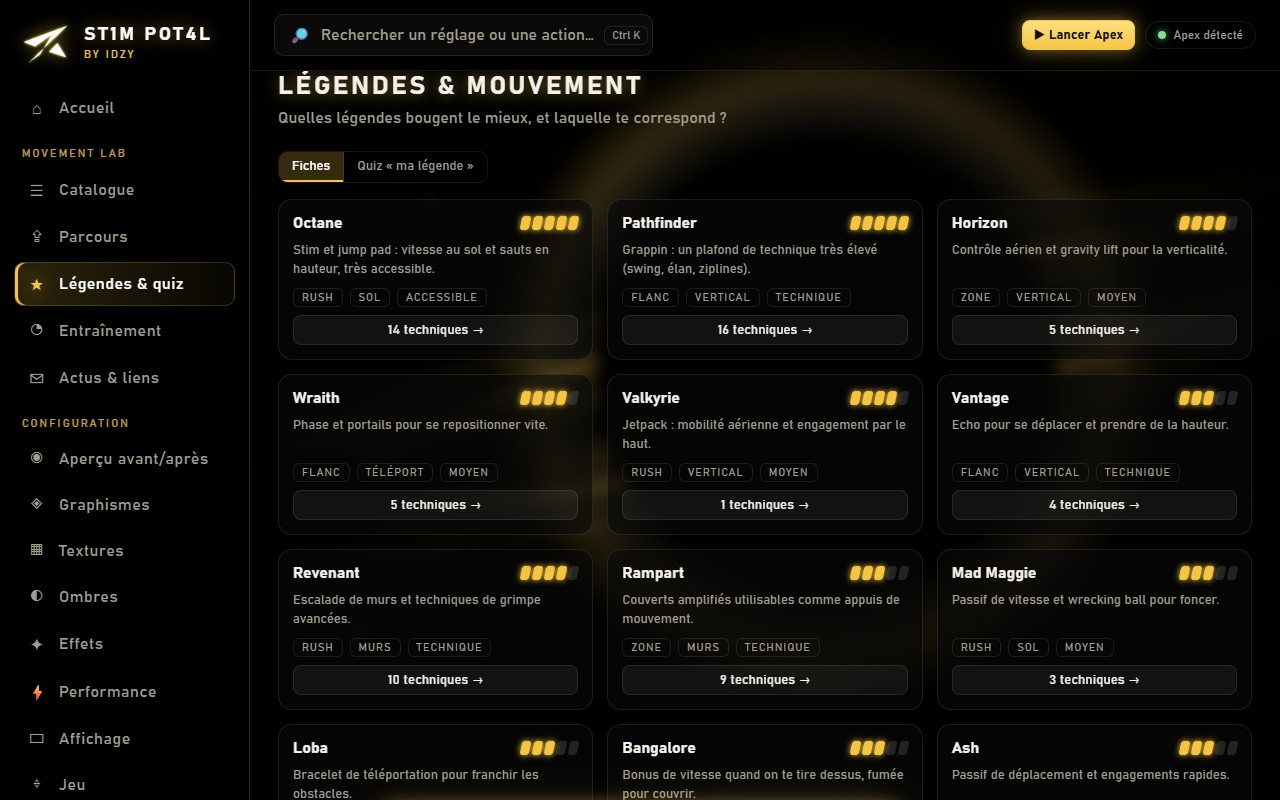
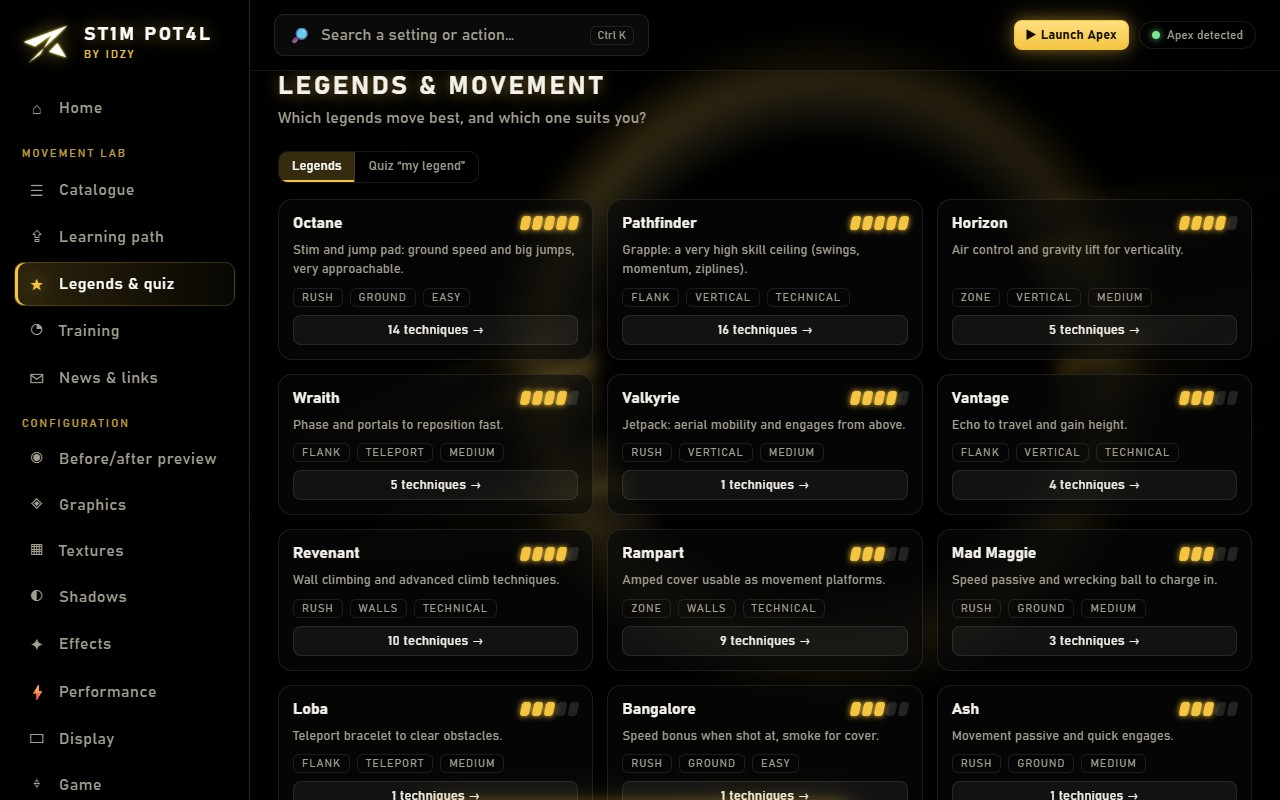
README, docs and screenshots in English

diff --git a/README.md b/README.md
@@ -2,23 +2,23 @@
 
 <img src="assets/banner.svg" alt="ST1M POT4L by idZy" width="100%">
 
-### L'éditeur de config **Apex Legends** qui débloque ce que le jeu cache — et le hub **mouvement** de ta communauté.
+### The **Apex Legends** config editor that unlocks what the game hides — and your community's **movement** hub.
 
-<a href="https://github.com/izakk-exe/st1m-pot4l-by-idzy/releases/latest"><img src="https://img.shields.io/badge/%E2%AC%87%20T%C3%89L%C3%89CHARGER-f5c542?style=for-the-badge&labelColor=000000" alt="Télécharger"></a>
-<a href="https://izakk-exe.github.io/st1m-pot4l-by-idzy/"><img src="https://img.shields.io/badge/%E2%96%B6%20D%C3%89MO%20WEB-ffffff?style=for-the-badge&labelColor=000000" alt="Démo web"></a>
+<a href="https://github.com/izakk-exe/st1m-pot4l-by-idzy/releases/latest"><img src="https://img.shields.io/badge/%E2%AC%87%20DOWNLOAD-f5c542?style=for-the-badge&labelColor=000000" alt="Download"></a>
+<a href="https://izakk-exe.github.io/st1m-pot4l-by-idzy/"><img src="https://img.shields.io/badge/%E2%96%B6%20WEB%20DEMO-ffffff?style=for-the-badge&labelColor=000000" alt="Web demo"></a>
 
 <img src="https://img.shields.io/github/v/release/izakk-exe/st1m-pot4l-by-idzy?style=flat-square&color=f5c542&labelColor=0a0a0a" alt="version">
-<img src="https://img.shields.io/github/downloads/izakk-exe/st1m-pot4l-by-idzy/total?style=flat-square&color=f5c542&labelColor=0a0a0a" alt="téléchargements">
+<img src="https://img.shields.io/github/downloads/izakk-exe/st1m-pot4l-by-idzy/total?style=flat-square&color=f5c542&labelColor=0a0a0a" alt="downloads">
 <img src="https://img.shields.io/badge/Windows-10%20%7C%2011-f5c542?style=flat-square&labelColor=0a0a0a" alt="Windows">
-<img src="https://img.shields.io/badge/licence-MIT-f5c542?style=flat-square&labelColor=0a0a0a" alt="MIT">
-<img src="https://img.shields.io/badge/100%25-gratuit-f5c542?style=flat-square&labelColor=0a0a0a" alt="gratuit">
+<img src="https://img.shields.io/badge/license-MIT-f5c542?style=flat-square&labelColor=0a0a0a" alt="MIT">
+<img src="https://img.shields.io/badge/100%25-free-f5c542?style=flat-square&labelColor=0a0a0a" alt="free">
 
 <br><br>
 
 <table>
 <tr>
-<td align="center"><img src="assets/readme/before-after.gif" width="400" alt="Comparateur avant / après"><br><sub><b>Avant / après</b> sur de vraies captures</sub></td>
-<td align="center"><img src="assets/readme/overlay.gif" width="250" alt="Overlay clavier et souris"><br><sub><b>Overlay</b> clavier &amp; souris</sub></td>
+<td align="center"><img src="assets/readme/before-after.gif" width="400" alt="Before / after comparison"><br><sub><b>Before / after</b> on real in-game captures</sub></td>
+<td align="center"><img src="assets/readme/overlay.gif" width="250" alt="Keyboard and mouse overlay"><br><sub><b>Keyboard &amp; mouse</b> overlay</sub></td>
 <td align="center"><img src="assets/readme/superglide-trainer.gif" width="400" alt="Superglide Trainer"><br><sub><b>Superglide Trainer</b></sub></td>
 </tr>
 </table>
@@ -27,65 +27,65 @@
 
 ---
 
-## ⚡ En 3 clics
+## ⚡ In 3 clicks
 
-1. **Télécharge** l'installeur dans les [Releases](https://github.com/izakk-exe/st1m-pot4l-by-idzy/releases/latest).
-2. **Ferme Apex**, lance **ST1M POT4L**.
-3. Clique sur **« Appliquer le setup ST1M »** — FOV 120, réticule magenta, textures et ombres réglées. Une sauvegarde est créée, un bouton **Annuler** reste à portée.
+1. **Download** the installer from the [Releases](https://github.com/izakk-exe/st1m-pot4l-by-idzy/releases/latest) page.
+2. **Close Apex**, then launch **ST1M POT4L**.
+3. Click **"Apply the ST1M setup"** — FOV 120, magenta reticle, textures and shadows tuned. A backup is created and an **Undo** button stays within reach.
 
-<p align="center"><img src="assets/readme/home.jpg" width="92%" alt="Accueil"></p>
+<p align="center"><img src="assets/readme/home.jpg" width="92%" alt="Home"></p>
 
 ---
 
-## 🎛 L'éditeur de config — tout ce que le menu d'Apex ne te laisse pas faire
+## 🎛 The config editor — everything Apex's menu won't let you do
 
 <table>
 <tr>
-<td width="50%"><img src="assets/readme/config.jpg" alt="Réglages"></td>
+<td width="50%"><img src="assets/readme/config.jpg" alt="Settings"></td>
 <td width="50%">
 
-- **40+ réglages** : graphismes, textures, ombres, effets, performance, affichage, FOV jusqu'à **120**, réticule **RGB**, NVIDIA Reflex…
-- **Révision avant d'appliquer** : la liste exacte de ce qui change, avec **annulation réglage par réglage** ↺
-- **Presets** : ST1M, Compétitif, Équilibré, Ultra
-- **Codes de partage** `SP1:` / `CE1:` — copie ton setup, colle celui d'un pote
-- **Profils** nommés (Ranked, LAN…), recherche `Ctrl + K`
-- **Sauvegardes automatiques** (original + version précédente) et **restauration en 1 clic**
-- **Verrou de config** pour qu'Apex ne réinitialise pas tes réglages
-- **Résolution étirée**, options de lancement, bouton **▶ Lancer Apex** (Steam / EA app)
+- **40+ settings**: graphics, textures, shadows, effects, performance, display, FOV up to **120**, **RGB** reticle, NVIDIA Reflex…
+- **Review before applying**: the exact list of what changes, with **per-setting undo** ↺
+- **Presets**: ST1M, Competitive, Balanced, Ultra
+- **Share codes** `SP1:` / `CE1:` — copy your setup, paste a friend's
+- **Named profiles** (Ranked, LAN…) and `Ctrl + K` search
+- **Automatic backups** (original + previous version) and **one-click restore**
+- **Config lock** so Apex can't reset your settings
+- **Stretched resolution**, launch options and a **▶ Launch Apex** button (Steam / EA app)
 
 </td>
 </tr>
 </table>
 
-### 👁 Vois l'effet avant de l'appliquer
-Chaque réglage a son bouton **Aperçu** : glisse la barre dorée pour comparer **sur de vraies captures du jeu** (ombres du soleil, SSAO, textures, LOD, décals, streaming…), avec une phrase qui explique ce que ça change.
+### 👁 See the effect before you apply it
+Every setting has a **Preview** button: drag the golden bar to compare **on real in-game captures** (sun shadows, SSAO, textures, LOD, decals, streaming…), with a short note on what it actually changes.
 
-<p align="center"><img src="assets/readme/apercu.jpg" width="92%" alt="Aperçu avant / après des presets"></p>
+<p align="center"><img src="assets/readme/apercu.jpg" width="92%" alt="Before / after preview of the presets"></p>
 
 ---
 
-## 🧭 Movement Lab — le hub mouvement
+## 🧭 Movement Lab — the movement hub
 
-> Plus de **280 techniques** de mouvement, un parcours pour progresser, des entraîneurs qui mesurent tes inputs.
+> **280+ movement techniques**, a learning path to progress, and trainers that measure your inputs.
 
 <table>
 <tr>
-<td width="50%"><img src="assets/readme/catalogue.jpg" alt="Catalogue"><br><b>☰ Catalogue</b> — 287 techniques triées par difficulté, avec <b>tes propres touches</b> lues dans <code>settings.cfg</code> et un lien vers le guide complet.</td>
-<td width="50%"><img src="assets/readme/parcours.jpg" alt="Parcours"><br><b>⇪ Parcours</b> — 6 étapes, niveaux, XP et badges : de <i>Rookie</i> à <i>Apex Mover</i>.</td>
+<td width="50%"><img src="assets/readme/catalogue.jpg" alt="Catalogue"><br><b>☰ Catalogue</b> — 287 techniques sorted by difficulty, showing <b>your own keys</b> read from <code>settings.cfg</code>, with a link to the full guide.</td>
+<td width="50%"><img src="assets/readme/parcours.jpg" alt="Learning path"><br><b>⇪ Learning path</b> — 6 stages, levels, XP and badges: from <i>Rookie</i> to <i>Apex Mover</i>.</td>
 </tr>
 <tr>
-<td width="50%"><img src="assets/readme/training.jpg" alt="Entraînement"><br><b>◔ Superglide Trainer</b> — l'écart saut → accroupi mesuré en frames, % de réussite, régularité, raisons d'échec. + cadence de molette (tap strafe) et rythme de saut.</td>
-<td width="50%"><img src="assets/readme/legendes.jpg" alt="Légendes"><br><b>★ Légendes &amp; quiz</b> — mobilité de chaque légende et un quiz pour trouver celle qui te correspond.</td>
+<td width="50%"><img src="assets/readme/training.jpg" alt="Training"><br><b>◔ Superglide Trainer</b> — the jump → crouch gap measured in frames, success chance, consistency and failure reasons. Plus wheel cadence (tap strafe) and jump rhythm trainers.</td>
+<td width="50%"><img src="assets/readme/legendes.jpg" alt="Legends"><br><b>★ Legends &amp; quiz</b> — each legend's mobility, and a quiz to find the one that suits you.</td>
 </tr>
 </table>
 
-### ◎ Overlay clavier & souris
-**W A S D** s'allument pendant que tu joues, un **cercle entoure les touches** et un point suit **la direction de ta souris**. En option : Ctrl, Maj, Espace, clics, boutons latéraux, **molette avec compteur par seconde** et **frise saut / accroupi / molette**. Couleur, taille, position et opacité réglables — idéal pour les clips et le coaching. Raccourci : `Ctrl + Maj + O`.
+### ◎ Keyboard & mouse overlay
+**W A S D** light up as you play, a **ring surrounds the keys** and a dot follows **your mouse direction**. Optionally: Ctrl, Shift, Space, clicks, side buttons, a **mouse-wheel counter (ticks per second)** and a **jump / crouch / scroll timeline**. Colour, size, position and opacity are adjustable — perfect for clips and coaching. Shortcut: `Ctrl + Shift + O`.
 
-<p align="center"><img src="assets/readme/overlay.jpg" width="92%" alt="Réglages de l'overlay"></p>
+<p align="center"><img src="assets/readme/overlay.jpg" width="92%" alt="Overlay settings"></p>
 
-### ⌨ Packs de binds en un clic
-Tap strafe (molette haut/bas = avancer), scroll jump, superglide… Chaque touche déclenche **une seule commande normale du jeu** : **aucune macro, aucune automatisation**.
+### ⌨ One-click bind packs
+Tap strafe (wheel up/down = forward), scroll jump, superglide… Every key triggers **one normal in-game command**: **no macros, no input automation**.
 
 <p align="center"><img src="assets/readme/binds.jpg" width="92%" alt="Binds"></p>
 
@@ -95,56 +95,41 @@ Tap strafe (molette haut/bas = avancer), scroll jump, superglide… Chaque touch
 
 | | |
 |---|---|
-| **Installeur** (recommandé) | `ST1M-POT4L-Setup-x.y.z.exe` — se met à jour depuis l'app (*Actus & liens → Vérifier les mises à jour*) |
-| **Portable** | `ST1M-POT4L-Portable-x.y.z.exe` — aucune installation, pas de mise à jour automatique |
+| **Installer** (recommended) | `ST1M-POT4L-Setup-x.y.z.exe` — updates itself from the app (*News & links → Check for updates*) |
+| **Portable** | `ST1M-POT4L-Portable-x.y.z.exe` — no installation, no automatic updates |
 
-> **Windows affiche « Windows a protégé votre PC » ?** C'est normal : l'application n'est pas signée (un certificat coûte cher). Clique sur **Informations complémentaires → Exécuter quand même**. Tout le code est visible dans ce dépôt.
+> **Windows shows "Windows protected your PC"?** That's expected: the app is unsigned (a code-signing certificate is expensive). Click **More info → Run anyway**. All the code is visible in this repository.
 
-**Prérequis** : Windows 10/11. Pour l'**overlay**, mets Apex en mode **Sans bordure** (impossible au-dessus du plein écran exclusif).
-
----
-
-## 🔒 Confiance & vie privée
-
-- **Aucun compte, aucun tracking.** Les seules connexions réseau : récupération optionnelle des actus/statuts communautaires et vérification des mises à jour, depuis GitHub.
-- **Sauvegardes automatiques** avant chaque modification des fichiers (`%USERPROFILE%\Saved Games\Respawn\Apex`).
-- **L'overlay lit localement** uniquement W A S D, Maj, Ctrl, Espace, C, la souris et la molette — via le même mécanisme que les overlays OBS (*Raw Input*). Rien n'est enregistré ni envoyé. Le code : [`electron/input-helper.ps1`](electron/input-helper.ps1).
-- **Les entraîneurs mesurent, ils n'envoient jamais rien au jeu.**
-
-> ⚠ Projet communautaire **non affilié à EA / Respawn**. Modifier des fichiers de config se fait à tes risques ; l'app n'injecte rien dans le jeu, mais **aucune garantie** vis-à-vis d'EasyAntiCheat ne peut être donnée.
+**Requirements**: Windows 10/11. For the **overlay**, set Apex to **Borderless** mode (it can't draw over exclusive fullscreen).
 
 ---
 
-## 🛠 Pour les devs
+## 🔒 Trust & privacy
+
+- **No account, no tracking.** The only network calls: an optional fetch of community news/statuses and the update check, both from GitHub.
+- **Automatic backups** before every change to your files (`%USERPROFILE%\Saved Games\Respawn\Apex`).
+- **The overlay reads locally** only W A S D, Shift, Ctrl, Space, C, the mouse and the wheel — using the same mechanism as OBS input overlays (*Raw Input*). Nothing is recorded or sent. Source: [`electron/input-helper.ps1`](electron/input-helper.ps1).
+- **The trainers measure; they never send anything to the game.**
+
+> ⚠ Community project, **not affiliated with EA / Respawn**. Editing config files is at your own risk. The app injects nothing into the game, but **no guarantee regarding EasyAntiCheat can be given**.
+
+---
+
+## 🛠 For developers
 
 ```bash
 npm install
-npm start      # lance l'app
-npm run web    # démo web sur http://localhost:8765
+npm start      # run the app
+npm run web    # web demo on http://localhost:8765
 ```
 
-Build Windows : `npm run dist` (admin ou mode développeur) ou `scripts/build-win-local.ps1`.
-Contenu communautaire (statuts par saison, vidéos, actus) : [`CONTRIBUTING.md`](CONTRIBUTING.md) — une simple pull request sur `src/data/community.json`.
+Windows build: `npm run dist` (admin or Developer Mode) or `scripts/build-win-local.ps1`.
+Community content (per-season statuses, videos, news): see [`CONTRIBUTING.md`](CONTRIBUTING.md) — a simple pull request on `src/data/community.json`.
 
-## 🙏 Crédits
+## 🙏 Credits
 
-- **[Config Editor for Apex Legends](https://codeberg.org/configeditor/config-editor)** (MIT) — inspiration, valeurs des réglages et images de comparaison.
-- **[Apex Movement Wiki](https://apexmovement.tech)** — l'index des techniques du Movement Lab renvoie vers leurs guides. Allez les voir, ils font un boulot incroyable.
-- Détails dans [`NOTICE.md`](NOTICE.md) · Licence [MIT](LICENSE) © idZy.
+- **[Config Editor for Apex Legends](https://codeberg.org/configeditor/config-editor)** (MIT) — inspiration, setting values and comparison images.
+- **[Apex Movement Wiki](https://apexmovement.tech)** — the Movement Lab's technique index links to their guides. Go check them out, they do incredible work.
+- Details in [`NOTICE.md`](NOTICE.md) · [MIT](LICENSE) licensed © idZy.
 
-<div align="center"><sub><b>ST1M POT4L</b> by idZy — fait par des joueurs, pour des joueurs.</sub></div>
-
----
-
-<details>
-<summary><b>🇬🇧 English summary</b></summary>
-
-**ST1M POT4L** is a free Windows app for **Apex Legends**: a config editor that unlocks hidden settings (FOV up to 120, sun shadows, textures, RGB reticle, Reflex…) with **one-click setups**, **before/after previews on real in-game captures**, automatic backups and one-click restore, plus a **Movement Lab**: a 280+ technique catalogue (index of the Apex Movement Wiki) showing *your* keys, a learning path with XP, legend cards and quiz, a **Superglide Trainer**, wheel-cadence and jump-rhythm trainers, and a **keyboard & mouse overlay** (WASD, mouse ring, wheel counter, input timeline).
-
-- **Install:** download from [Releases](https://github.com/izakk-exe/st1m-pot4l-by-idzy/releases/latest). Windows SmartScreen may warn because the app is unsigned: *More info → Run anyway*.
-- **Overlay:** set Apex to *Borderless* mode. It only reads W A S D, Shift, Ctrl, Space, C, mouse and wheel, locally.
-- **No macros:** every bind triggers one normal game command; the trainers only *measure* inputs.
-- **Disclaimer:** community project, not affiliated with EA/Respawn; use at your own risk, no anti-cheat guarantee.
-- Web demo: <https://izakk-exe.github.io/st1m-pot4l-by-idzy/> · License: MIT.
-
-</details>
+<div align="center"><sub><b>ST1M POT4L</b> by idZy — made by players, for players.</sub></div>

diff --git a/CONTRIBUTING.md b/CONTRIBUTING.md
@@ -1,28 +1,28 @@
-# Contribuer / Contributing
+# Contributing
 
-Tout le contenu communautaire est dans **`src/data/community.json`** — une pull request suffit, aucune ligne de code à écrire.
+All community content lives in **`src/data/community.json`** — a pull request is enough, no code to write.
 
-## Statut d'une technique (par saison)
+## Technique status (per season)
 ```json
-"statuses": { "superglide": { "s": "ok", "season": "S27", "note": "Vérifié en jeu" } }
+"statuses": { "superglide": { "s": "ok", "season": "S27", "note": "Verified in game" } }
 ```
-`s` = `ok` | `patched` | `broken`. Les identifiants (`superglide`, `tap-strafe`…) sont ceux du catalogue de l'app
-(dans `src/data/catalog.js`, 1re colonne).
+`s` = `ok` | `patched` | `broken`. IDs (`superglide`, `tap-strafe`…) are the ones used by the in-app catalogue
+(see `src/data/catalog.js`, first column).
 
-## Vidéos
+## Videos
 ```json
-"videos": { "tap-strafe": [ { "t": "Tap strafe en 5 minutes", "u": "https://www.youtube.com/watch?v=XXXX", "by": "Pseudo" } ] }
+"videos": { "tap-strafe": [ { "t": "Tap strafe in 5 minutes", "u": "https://www.youtube.com/watch?v=XXXX", "by": "Nickname" } ] }
 ```
-Seuls les liens `https` vers YouTube, Twitch, apexmovement.tech et GitHub sont acceptés par l'app.
+The app only accepts `https` links to YouTube, Twitch, apexmovement.tech and GitHub.
 
-## Actus
+## News
 ```json
-"news": [ { "d": "2026-10-06", "t": "Titre", "b": "Texte court", "u": "https://…" } ]
+"news": [ { "d": "2026-10-06", "t": "Title", "b": "Short text", "u": "https://…" } ]
 ```
 
-## Résumés de techniques
-Ajoute une entrée dans `ST.TECH_INFO` (`src/data/hub-content.js`) avec un texte **original** (ne copie pas le wiki) : `fr`, `en`, `acts`, `pre`.
+## Technique summaries
+Add an entry to `ST.TECH_INFO` (`src/data/hub-content.js`) with an **original** text (don't copy the wiki): `fr`, `en`, `acts`, `pre`.
 
-## Règles
-- Les outils d'entraînement et l'overlay **mesurent** uniquement : pas de macro, pas d'automatisation d'inputs.
-- Cite tes sources et renvoie vers le wiki pour les guides détaillés.
+## Rules
+- The training tools and the overlay **only measure**: no macros, no input automation.
+- Credit your sources and link to the wiki for detailed guides.

diff --git a/NOTICE.md b/NOTICE.md
@@ -1,13 +1,13 @@
-# Crédits / Credits
+# Credits
 
 - **Config Editor for Apex Legends** (https://codeberg.org/configeditor/config-editor) — MIT License, Copyright (c) 2026 Config Editor.
-  ST1M POT4L s'en inspire (fonctionnalités, valeurs des réglages et presets) et réutilise ses images de comparaison
-  `src/previews/*.webp` conformément à la licence MIT ci-dessous.
-- **Apex Movement Wiki** (https://apexmovement.tech) — le *Movement Lab* utilise l'index de son catalogue (noms des techniques, niveaux de difficulté,
-  liens) et renvoie vers ses guides pour le détail et les vidéos. Les résumés de l'app sont des textes originaux. Le wiki autorise la réutilisation
-  non commerciale ; ST1M POT4L est gratuit et non commercial. Merci à ses auteurs et contributeurs. Projet non affilié.
-- Apex Legends est une marque et une œuvre d'Electronic Arts / Respawn Entertainment. Les captures d'écran du jeu
-  restent la propriété de leurs ayants droit. Projet communautaire non affilié.
+  ST1M POT4L is inspired by it (features, setting values and presets) and reuses its comparison images
+  `src/previews/*.webp` under the MIT license below.
+- **Apex Movement Wiki** (https://apexmovement.tech) — the *Movement Lab* uses the index of its catalogue (technique names,
+  difficulty levels, links) and links back to its guides for details and videos. The in-app summaries are original texts. The wiki
+  allows non-commercial reuse; ST1M POT4L is free and non-commercial. Thanks to its authors and contributors. Not affiliated.
+- Apex Legends is a trademark and work of Electronic Arts / Respawn Entertainment. Game screenshots remain the property of
+  their respective owners. Community project, not affiliated.
 
 ---
 MIT License
